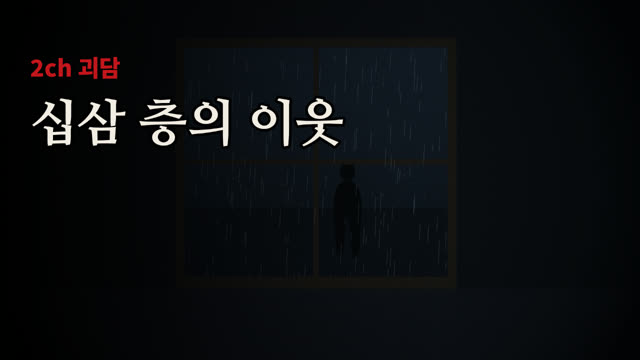
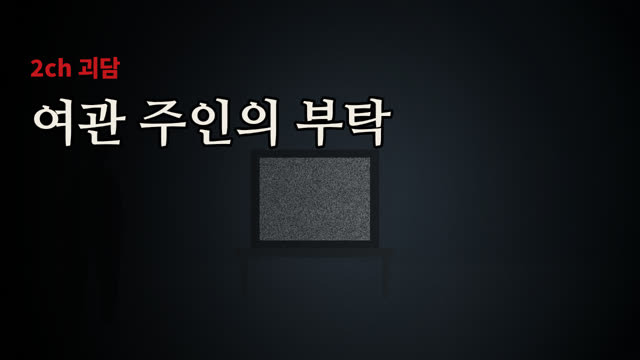
괴담 영상 3편 추가 (2026-11-11)

Changed region(s): [[0.0312, 0.2444, 0.7188, 0.825]]

diff --git a/goedam/index.html b/goedam/index.html
@@ -7,9 +7,72 @@ h1{font-size:22px;margin:6px 0 4px}p.s{color:#9aa0a8;margin:0 0 18px;font-size:1
 .r{display:flex;gap:8px;flex-wrap:wrap}.r a,.r button{flex:1;min-width:120px;text-align:center;font:inherit;font-weight:700;font-size:14px;color:#fff;background:#b3261e;border:0;border-radius:10px;padding:11px;text-decoration:none;cursor:pointer}
 .r button,.r a.t{background:#2a2e34}details{font-size:12.5px;color:#9aa0a8}details pre{white-space:pre-wrap;font:inherit;background:#0b0c0e;padding:10px;border-radius:8px}
 </style></head><body><main><h1>괴담 영상 보관함</h1><p class="s">매주 월요일 밤 새 영상이 자동으로 올라옵니다. 영상 받기 → 사진 앱에 저장 → YouTube 앱에서 업로드 · 제목·설명은 "설명 복사"</p>
-<div class="v"><img src="thumbs/goedam_20261111_03.jpg" alt="" loading="lazy"><div class="b"><h2>할머니의 마지막 규칙</h2>
-<div class="m">2026-11-11 · 1분 50초</div><div class="r"><a href="https://github.com/yunsub2002/yscomstory/releases/download/goedam-20261111-1139/goedam_20261111_03.mp4">⬇ 영상 받기</a><a class="t" href="https://github.com/yunsub2002/yscomstory/releases/download/goedam-20261111-1139/goedam_20261111_03_thumb.png">⬇ 썸네일</a><button data-c="d0">📋 설명 복사</button></div>
+<div class="v"><img src="thumbs/goedam_20261111_03.jpg" alt="" loading="lazy"><div class="b"><h2>창밖의 여자</h2>
+<div class="m">2026-11-11 · 1분 45초</div><div class="r"><a href="https://github.com/yunsub2002/yscomstory/releases/download/goedam-20261111-1351/goedam_20261111_03.mp4">⬇ 영상 받기</a><a class="t" href="https://github.com/yunsub2002/yscomstory/releases/download/goedam-20261111-1351/goedam_20261111_03_thumb.png">⬇ 썸네일</a><button data-c="d0">📋 설명 복사</button></div>
 <details><summary>제목·설명·태그 보기</summary><pre id="d0">[제목]
+[2ch 괴담] 창밖의 여자 | 잠들기 전 듣는 잔잔한 괴담 낭독
+
+[설명]
+창밖의 여자
+
+일본 익명 게시판 2ch 괴담 형식으로 만든 창작 이야기를 잔잔하게 읽어 드립니다.
+불 끄고, 이어폰 끼고 들어 보세요.
+
+0:00 시작
+1:02 이야기 1
+
+※ 이 이야기는 2ch 괴담 형식으로 창작한 픽션입니다. 실제 인물·장소와 관계없습니다.
+※ 낭독: AI 음성(Supertonic) — 이 영상의 목소리는 AI가 생성했습니다 · 화면·효과음: 자체 제작
+
+#괴담 #2ch괴담 #무서운이야기 #괴담낭독 #공포 #수면괴담
+
+[태그]
+괴담, 2ch 괴담, 일본 괴담, 무서운 이야기, 공포 낭독, 괴담 낭독, 수면 괴담, 미스터리, 오컬트, 창밖의 여자</pre></details></div></div>
+<div class="v"><img src="thumbs/goedam_20261111_02.jpg" alt="" loading="lazy"><div class="b"><h2>여관 주인의 부탁</h2>
+<div class="m">2026-11-11 · 1분 50초</div><div class="r"><a href="https://github.com/yunsub2002/yscomstory/releases/download/goedam-20261111-1351/goedam_20261111_02.mp4">⬇ 영상 받기</a><a class="t" href="https://github.com/yunsub2002/yscomstory/releases/download/goedam-20261111-1351/goedam_20261111_02_thumb.png">⬇ 썸네일</a><button data-c="d1">📋 설명 복사</button></div>
+<details><summary>제목·설명·태그 보기</summary><pre id="d1">[제목]
+[2ch 괴담] 여관 주인의 부탁 | 잠들기 전 듣는 잔잔한 괴담 낭독
+
+[설명]
+여관 주인의 부탁
+
+일본 익명 게시판 2ch 괴담 형식으로 만든 창작 이야기를 잔잔하게 읽어 드립니다.
+불 끄고, 이어폰 끼고 들어 보세요.
+
+0:00 시작
+1:06 이야기 1
+
+※ 이 이야기는 2ch 괴담 형식으로 창작한 픽션입니다. 실제 인물·장소와 관계없습니다.
+※ 낭독: AI 음성(Supertonic) — 이 영상의 목소리는 AI가 생성했습니다 · 화면·효과음: 자체 제작
+
+#괴담 #2ch괴담 #무서운이야기 #괴담낭독 #공포 #수면괴담
+
+[태그]
+괴담, 2ch 괴담, 일본 괴담, 무서운 이야기, 공포 낭독, 괴담 낭독, 수면 괴담, 미스터리, 오컬트, 여관 주인의 부탁</pre></details></div></div>
+<div class="v"><img src="thumbs/goedam_20261111_01.jpg" alt="" loading="lazy"><div class="b"><h2>뒷산의 종소리</h2>
+<div class="m">2026-11-11 · 1분 58초</div><div class="r"><a href="https://github.com/yunsub2002/yscomstory/releases/download/goedam-20261111-1351/goedam_20261111_01.mp4">⬇ 영상 받기</a><a class="t" href="https://github.com/yunsub2002/yscomstory/releases/download/goedam-20261111-1351/goedam_20261111_01_thumb.png">⬇ 썸네일</a><button data-c="d2">📋 설명 복사</button></div>
+<details><summary>제목·설명·태그 보기</summary><pre id="d2">[제목]
+[2ch 괴담] 뒷산의 종소리 | 잠들기 전 듣는 잔잔한 괴담 낭독
+
+[설명]
+뒷산의 종소리
+
+일본 익명 게시판 2ch 괴담 형식으로 만든 창작 이야기를 잔잔하게 읽어 드립니다.
+불 끄고, 이어폰 끼고 들어 보세요.
+
+0:00 시작
+1:09 이야기 1
+
+※ 이 이야기는 2ch 괴담 형식으로 창작한 픽션입니다. 실제 인물·장소와 관계없습니다.
+※ 낭독: AI 음성(Supertonic) — 이 영상의 목소리는 AI가 생성했습니다 · 화면·효과음: 자체 제작
+
+#괴담 #2ch괴담 #무서운이야기 #괴담낭독 #공포 #수면괴담
+
+[태그]
+괴담, 2ch 괴담, 일본 괴담, 무서운 이야기, 공포 낭독, 괴담 낭독, 수면 괴담, 미스터리, 오컬트, 뒷산의 종소리</pre></details></div></div>
+<div class="v"><img src="thumbs/goedam_20261111_03.jpg" alt="" loading="lazy"><div class="b"><h2>할머니의 마지막 규칙</h2>
+<div class="m">2026-11-11 · 1분 50초</div><div class="r"><a href="https://github.com/yunsub2002/yscomstory/releases/download/goedam-20261111-1139/goedam_20261111_03.mp4">⬇ 영상 받기</a><a class="t" href="https://github.com/yunsub2002/yscomstory/releases/download/goedam-20261111-1139/goedam_20261111_03_thumb.png">⬇ 썸네일</a><button data-c="d3">📋 설명 복사</button></div>
+<details><summary>제목·설명·태그 보기</summary><pre id="d3">[제목]
 [2ch 괴담] 할머니의 마지막 규칙 | 잠들기 전 듣는 잔잔한 괴담 낭독
 
 [설명]
@@ -29,8 +92,8 @@ h1{font-size:22px;margin:6px 0 4px}p.s{color:#9aa0a8;margin:0 0 18px;font-size:1
 [태그]
 괴담, 2ch 괴담, 일본 괴담, 무서운 이야기, 공포 낭독, 괴담 낭독, 수면 괴담, 미스터리, 오컬트, 할머니의 마지막 규칙</pre></details></div></div>
 <div class="v"><img src="thumbs/goedam_20261111_02.jpg" alt="" loading="lazy"><div class="b"><h2>십삼 층의 이웃</h2>
-<div class="m">2026-11-11 · 1분 54초</div><div class="r"><a href="https://github.com/yunsub2002/yscomstory/releases/download/goedam-20261111-1139/goedam_20261111_02.mp4">⬇ 영상 받기</a><a class="t" href="https://github.com/yunsub2002/yscomstory/releases/download/goedam-20261111-1139/goedam_20261111_02_thumb.png">⬇ 썸네일</a><button data-c="d1">📋 설명 복사</button></div>
-<details><summary>제목·설명·태그 보기</summary><pre id="d1">[제목]
+<div class="m">2026-11-11 · 1분 54초</div><div class="r"><a href="https://github.com/yunsub2002/yscomstory/releases/download/goedam-20261111-1139/goedam_20261111_02.mp4">⬇ 영상 받기</a><a class="t" href="https://github.com/yunsub2002/yscomstory/releases/download/goedam-20261111-1139/goedam_20261111_02_thumb.png">⬇ 썸네일</a><button data-c="d4">📋 설명 복사</button></div>
+<details><summary>제목·설명·태그 보기</summary><pre id="d4">[제목]
 [2ch 괴담] 십삼 층의 이웃 | 잠들기 전 듣는 잔잔한 괴담 낭독
 
 [설명]
@@ -50,8 +113,8 @@ h1{font-size:22px;margin:6px 0 4px}p.s{color:#9aa0a8;margin:0 0 18px;font-size:1
 [태그]
 괴담, 2ch 괴담, 일본 괴담, 무서운 이야기, 공포 낭독, 괴담 낭독, 수면 괴담, 미스터리, 오컬트, 십삼 층의 이웃</pre></details></div></div>
 <div class="v"><img src="thumbs/goedam_20261111_01.jpg" alt="" loading="lazy"><div class="b"><h2>야간 경비 일지</h2>
-<div class="m">2026-11-11 · 1분 46초</div><div class="r"><a href="https://github.com/yunsub2002/yscomstory/releases/download/goedam-20261111-1139/goedam_20261111_01.mp4">⬇ 영상 받기</a><a class="t" href="https://github.com/yunsub2002/yscomstory/releases/download/goedam-20261111-1139/goedam_20261111_01_thumb.png">⬇ 썸네일</a><button data-c="d2">📋 설명 복사</button></div>
-<details><summary>제목·설명·태그 보기</summary><pre id="d2">[제목]
+<div class="m">2026-11-11 · 1분 46초</div><div class="r"><a href="https://github.com/yunsub2002/yscomstory/releases/download/goedam-20261111-1139/goedam_20261111_01.mp4">⬇ 영상 받기</a><a class="t" href="https://github.com/yunsub2002/yscomstory/releases/download/goedam-20261111-1139/goedam_20261111_01_thumb.png">⬇ 썸네일</a><button data-c="d5">📋 설명 복사</button></div>
+<details><summary>제목·설명·태그 보기</summary><pre id="d5">[제목]
 [2ch 괴담] 야간 경비 일지 | 잠들기 전 듣는 잔잔한 괴담 낭독
 
 [설명]
